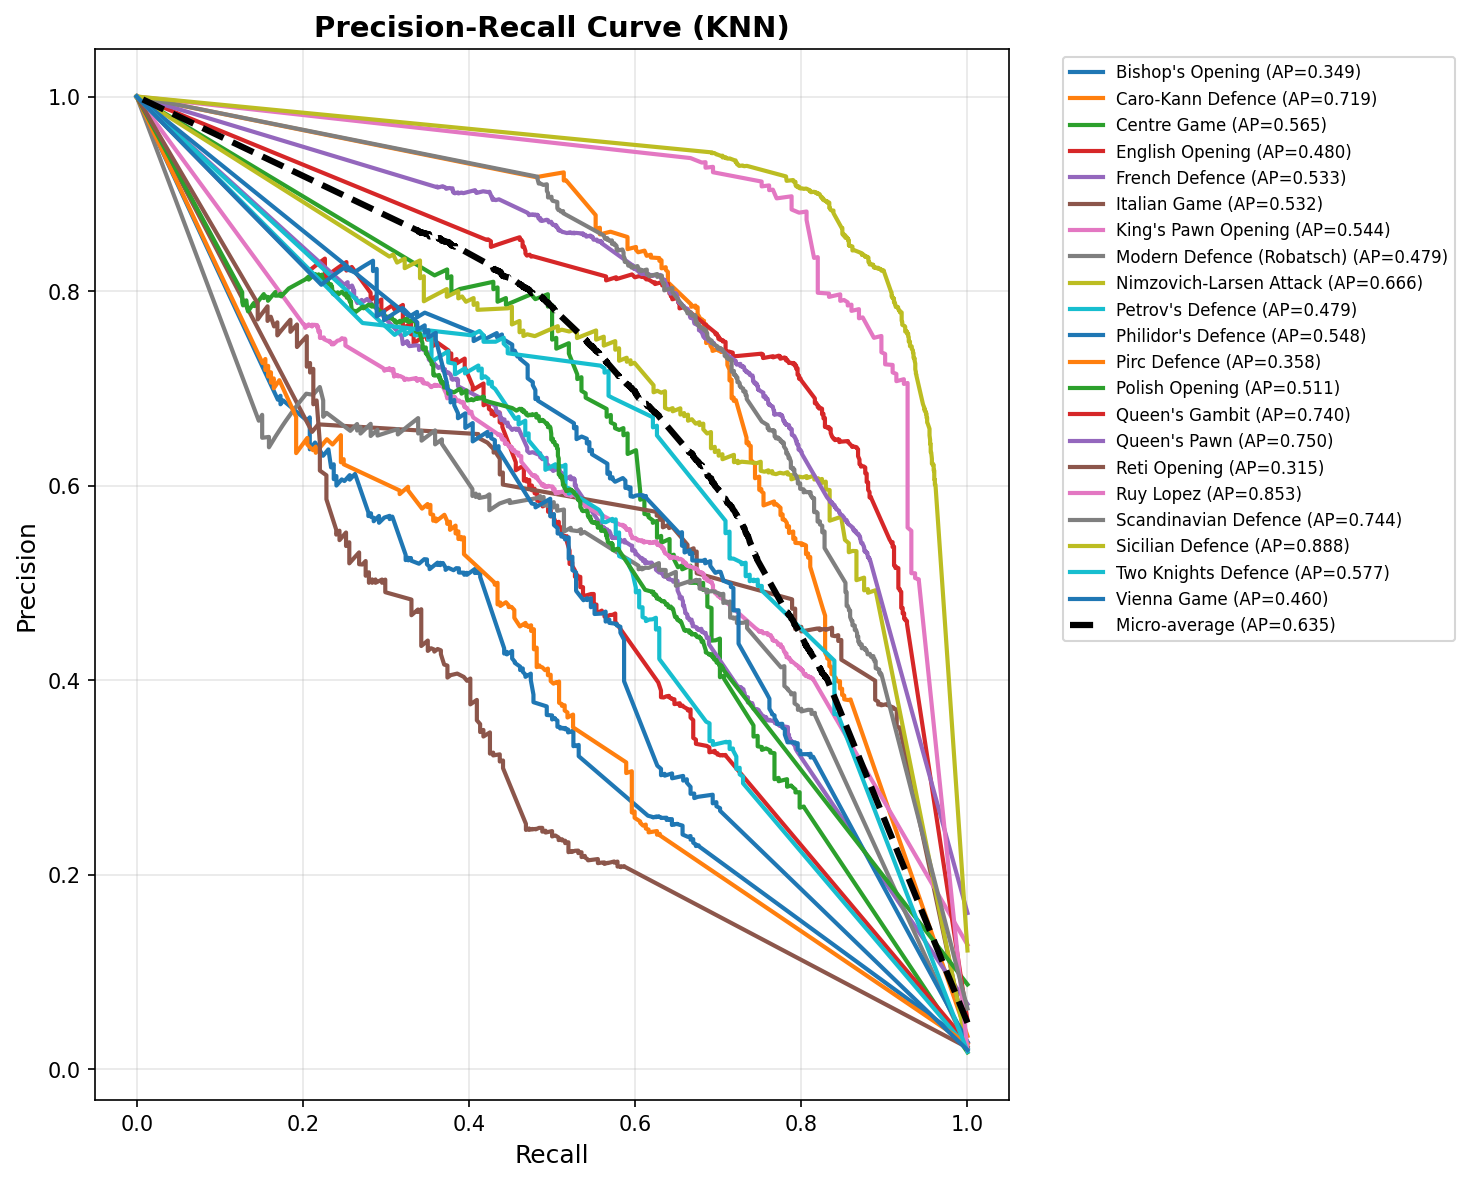
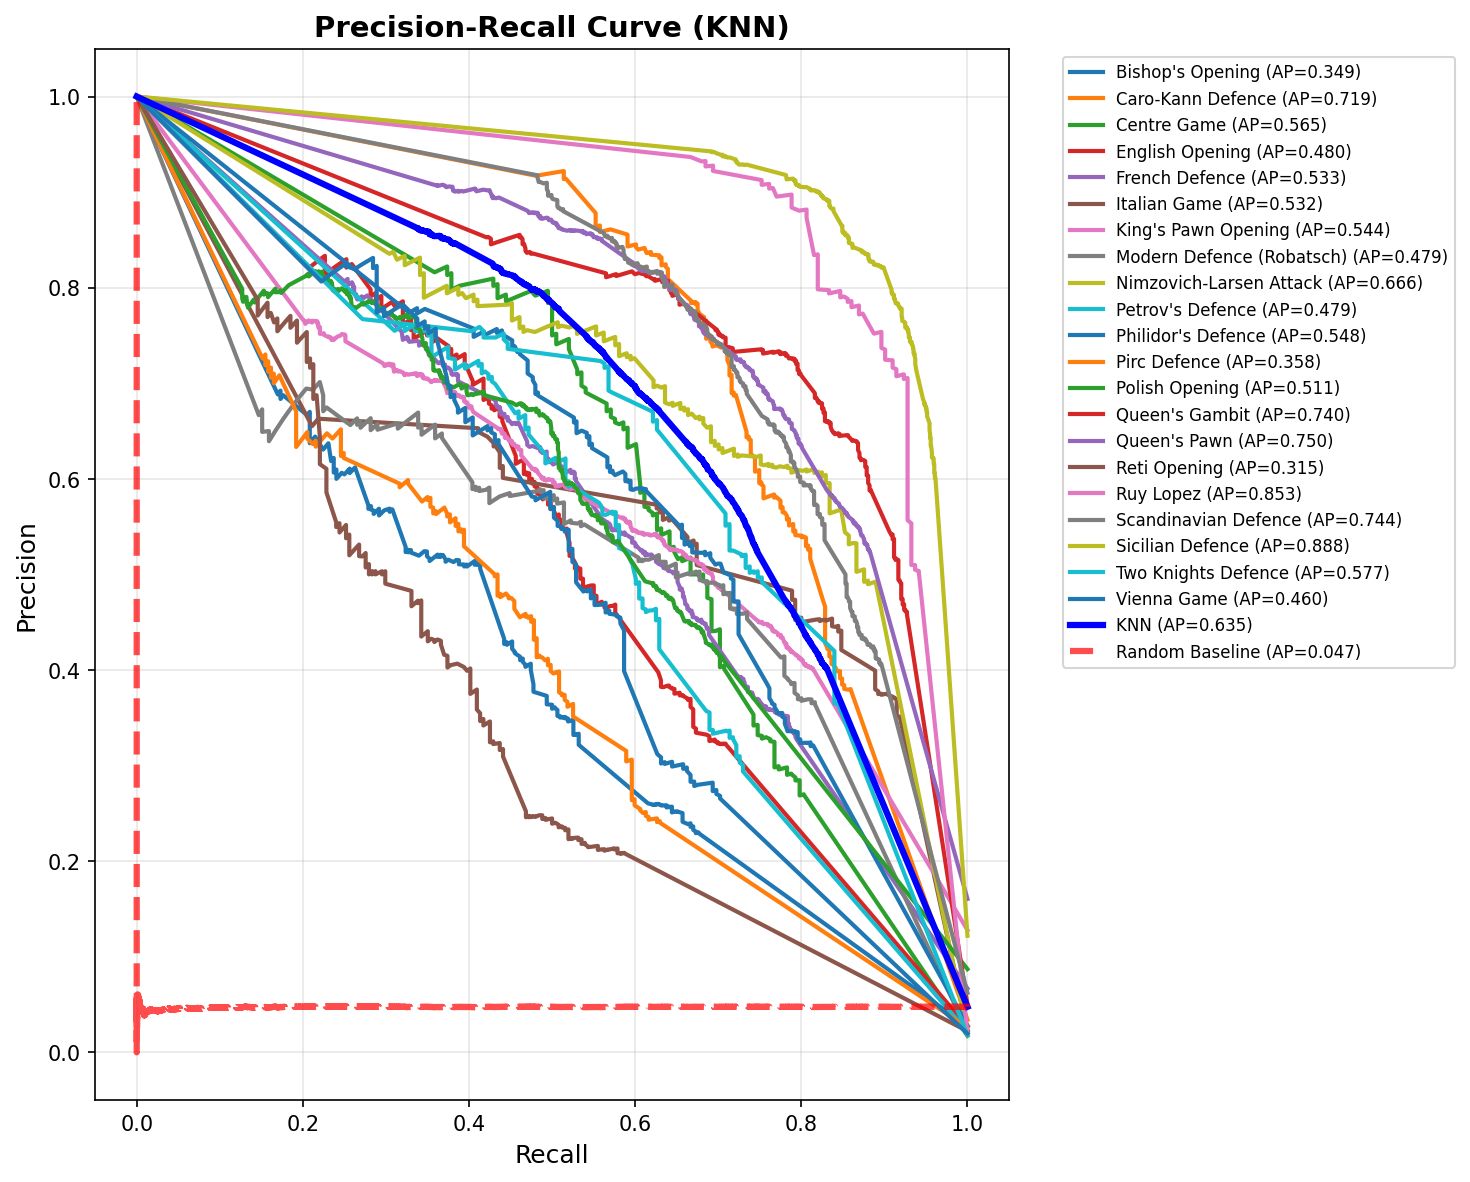
comparison to random

diff --git a/opening_predictor/model_eval.md b/opening_predictor/model_eval.md
@@ -112,6 +112,9 @@ Accuracy                       0.6418
 
 Our knn model did not do as well as our random forest model. Looking at the PR and ROC curve we can see that it’s clearly worse than the curves we had from random forest. However we can still see the same trends for which openings our model was able to classify better than others, for both random forest and knn classification of Sicilian Defence was one of the best while Reti Opening was the worst.
 
+### Random Baseline
+We also had a random baseline that would just output a random opening. We can see in our graphs that our models did better than the random baseline.
+
 
 ## Ideas for final report
 
